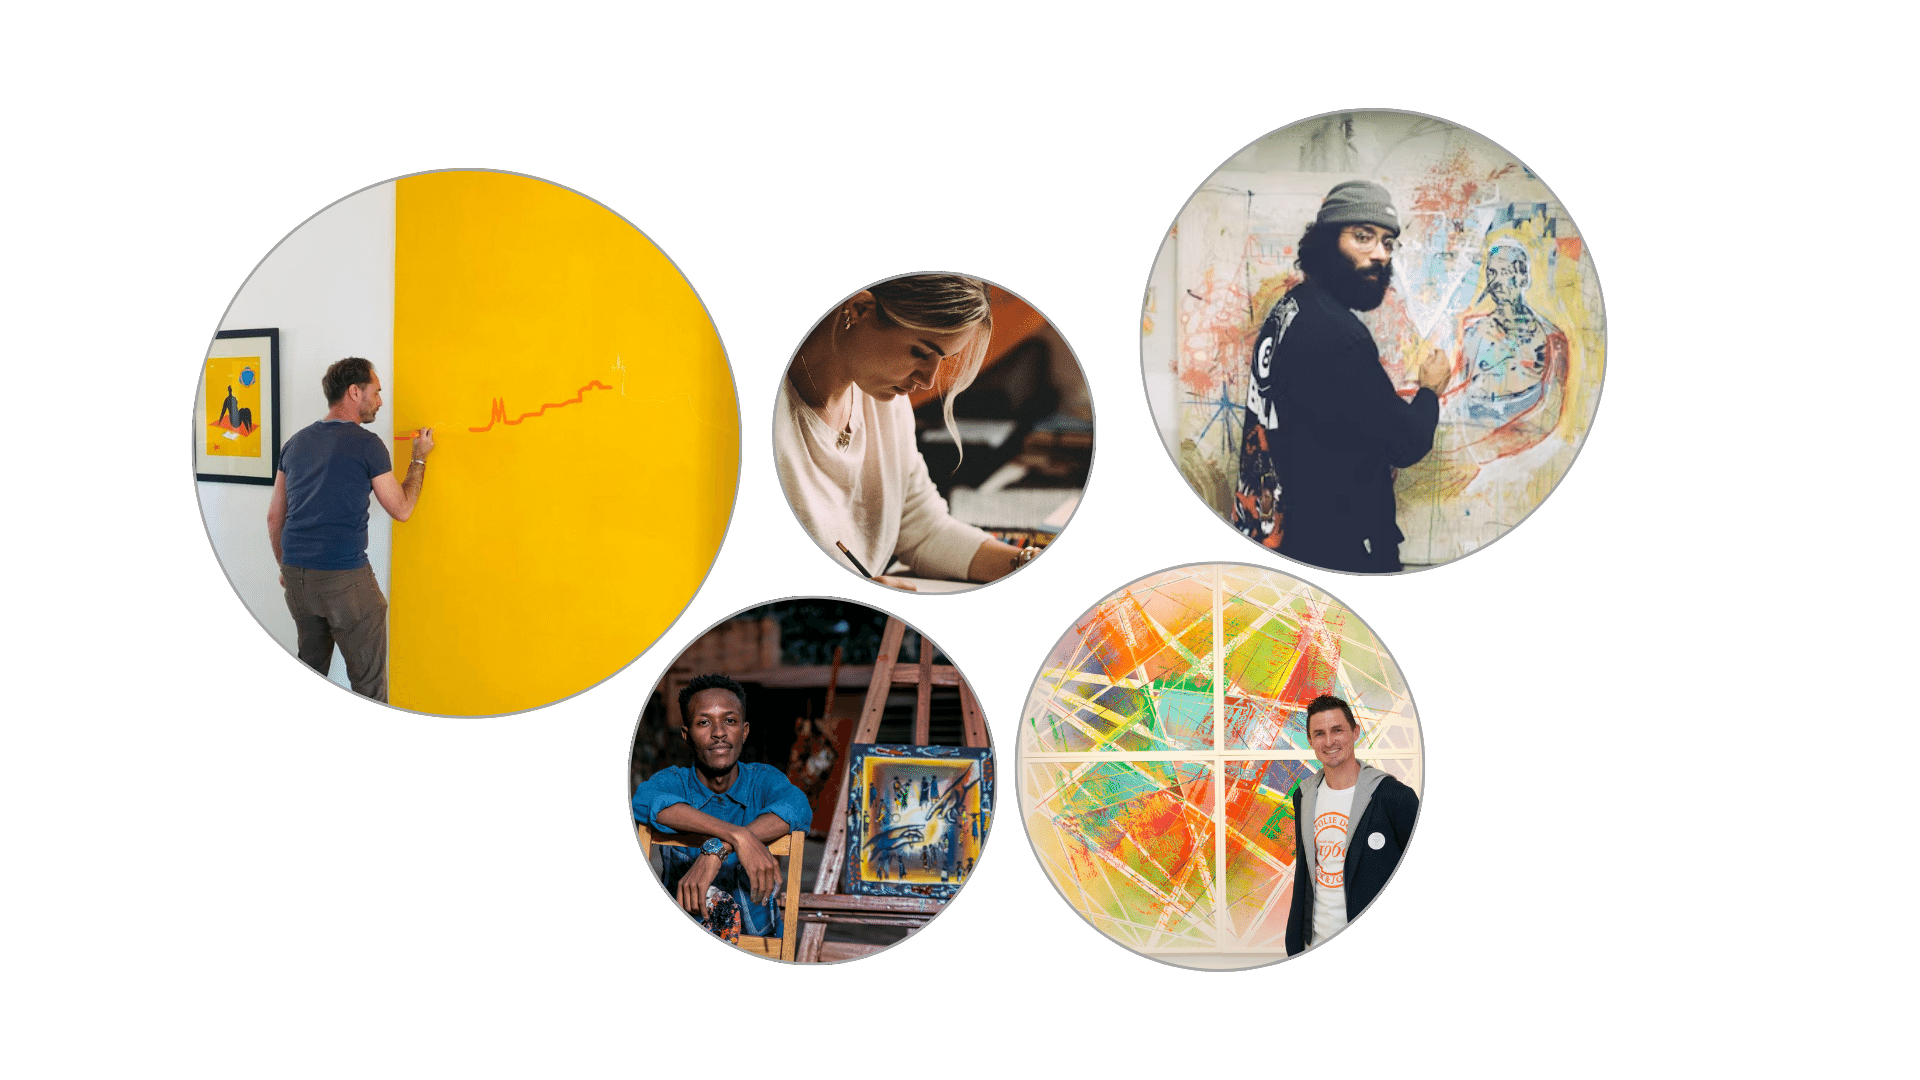
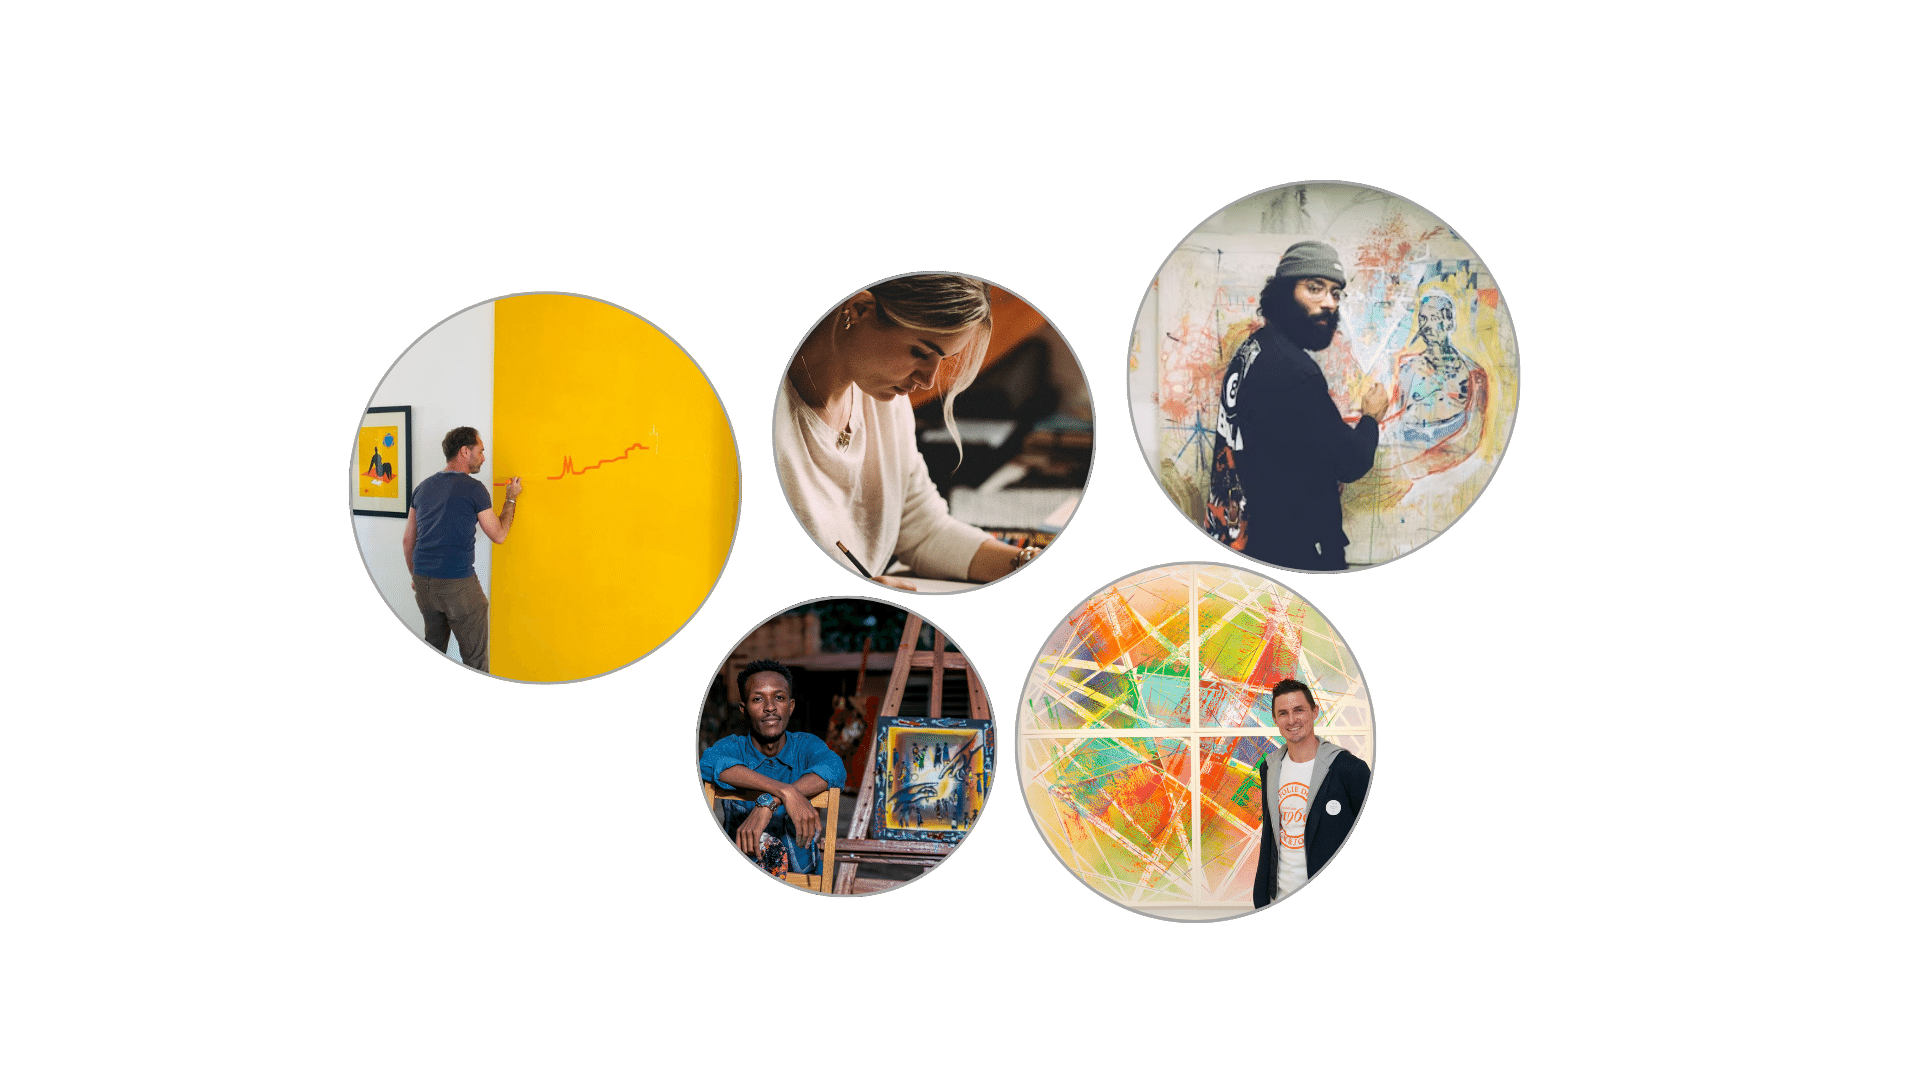
new

diff --git a/app/(services)/peinture/page.tsx b/app/(services)/peinture/page.tsx
@@ -72,7 +72,7 @@ const ServiceOeuvrePage = () => {
         <LayoutCardItem className={"border-t-0"}>
           <DescribeCompText
             className="flex xl:items-start xl:text-start text-center items-center"
-            title={" Les avantages pour l'entreprises !"}
+            title={" Les avantages pour l'entreprise !"}
             title2={"Peignez ☞"}
             list1={"Bénéficier d’un dispositif fiscal avantageux 💸"}
             list2={"Embellir vos lieux de travail 🤩"}
@@ -83,8 +83,8 @@ const ServiceOeuvrePage = () => {
           <SimpleImage
             image={"/image/hero-oeuvre.png"}
             alt={"Personnes heureuses en entreprise"}
-            className={"pb-0 mb-0"}
-            size={"md:h-[350px] h-[190px]"}
+            className={"pb-0 mb-1"}
+            size={"xl:h-[360px] md:h-[350px] h-[190px]"}
           />
         </LayoutCardItem>
       </LayoutModule>{" "}
@@ -99,7 +99,7 @@ const ServiceOeuvrePage = () => {
             text={
               <Typography variant={"p"}>
                 Vous échangerez sur son histoire et son style,{" "}
-                <strong>sa méthode de travail et ses inspirations. ✷</strong>
+                <strong>sa méthode de travail et ses inspirations ✷</strong>
               </Typography>
             }
           ></ValuePropCompText>
@@ -125,7 +125,7 @@ const ServiceOeuvrePage = () => {
                 {" "}
                 Chacun des employés challengera sa créativité{" "}
                 <strong>
-                  permettant ainsi a l'artiste de créer l'oeuvre par la suite !
+                  permettant ainsi a l'artiste de créer l'oeuvre !
                 </strong>{" "}
                 ✶
               </Typography>
@@ -154,7 +154,7 @@ const ServiceOeuvrePage = () => {
             image={"/image/artistes.png"}
             alt={"Artistes peintres"}
             className={"border-none shadow-none "}
-            size={"md:h-[350px] h-[190px]"}
+            size={" md:h-[350px] h-[190px]"}
           />
         </LayoutCardItem>
         <LayoutCardItem className={"border-t-0"}>

diff --git a/app/page.tsx b/app/page.tsx
@@ -86,8 +86,7 @@ export default function HomePage() {
                 Réalisez un investissement <strong>engagé</strong>, qui exprime
                 les <strong>valeurs de votre entreprise</strong>, vous
                 différencie de la concurrence tout en{" "}
-                <strong>soutenant l’art</strong> et les artistes{" "}
-                <strong>locaux</strong> ✶
+                <strong>soutenant les artistes locaux</strong> ✶
               </Typography>
             }
           ></ValuePropCompText>
@@ -145,6 +144,7 @@ export default function HomePage() {
         </LayoutCardItem>
         <LayoutCardItem className={"border-t-0"}>
           <CompareSlider
+            className={"xl:h-[320px]"}
             altImage1={""}
             srciImage1={"/image/fresque-entreprise.png"}
             altImage2={""}
@@ -178,7 +178,7 @@ export default function HomePage() {
             }
             alt={""}
             className={"pb-0 mb-0"}
-            size={"md:h-[350px] h-[190px]"}
+            size={"xl:h-[360px] md:h-[350px] h-[190px]"}
           />
         </LayoutCardItem>
       </LayoutModule>

diff --git a/app/(services)/team-building/page.tsx b/app/(services)/team-building/page.tsx
@@ -86,8 +86,8 @@ const ServiceTeamBuildingPage = () => {
           <SimpleImage
             image={"/image/hero-seminaire.png"}
             alt={"Personnes heureuses en entreprise"}
-            className={"pb-0 mb-0"}
-            size={"md:h-[350px] h-[190px]"}
+            className={"pb-0 mb-1"}
+            size={"xl:h-[370px] md:h-[350px] h-[190px]"}
           />
         </LayoutCardItem>
       </LayoutModule>{" "}
@@ -116,7 +116,10 @@ const ServiceTeamBuildingPage = () => {
                 {" "}
                 Les coachs plasticiens sont là pour offrir des conseils et une
                 orientation artistique tout au long du processus.{" "}
-                <strong>Leur expertise aide les équipes à se dépasser !</strong>
+                <strong>
+                  Leur expertise aide les équipes à se dépasser{" "}
+                </strong>{" "}
+                et à prendre confiance !
               </Typography>
             }
             icon={

diff --git a/app/(services)/fresque/page.tsx b/app/(services)/fresque/page.tsx
@@ -83,8 +83,8 @@ const ServiceFresquePage = () => {
           <SimpleImage
             image={"/image/hero-fresque.png"}
             alt={"Personnes heureuses en entreprise"}
-            className={"pb-0 mb-0"}
-            size={"md:h-[350px] h-[190px]"}
+            className={"pb-0 mb-1"}
+            size={"xl:h-[360px] md:h-[350px] h-[190px]"}
           />
         </LayoutCardItem>
       </LayoutModule>{" "}
@@ -104,7 +104,7 @@ const ServiceFresquePage = () => {
                   favorisant ainsi la collaboration et l'engagement de toute
                   l'équipe dans le processus créatif,
                 </strong>{" "}
-                créant un moment de partage inoubliable.
+                créant un moment de partage inoubliable et authentique.
               </Typography>
             }
           ></ValuePropCompText>

diff --git a/src/components/ui/card.tsx b/src/components/ui/card.tsx
@@ -7,7 +7,7 @@ import { cn } from "../../lib/utils";
 const cardVariants = cva("", {
   variants: {
     variant: {
-      item: "bg-card text-card-foreground w-[358px] md:w-[598px] xl:w-[1198px] p-1 ",
+      item: "bg-card text-card-foreground w-[358px] md:w-[598px] xl:w-[998px] p-1 ",
       default: "border bg-card text-card-foreground shadow-sm",
       background: "text-background-foreground border bg-background",
       error: "border border-destructive bg-card text-foreground",

diff --git a/src/features/components/home.tsx b/src/features/components/home.tsx
@@ -34,7 +34,7 @@ export const Home = ({
     >
       <Card
         variant={"default"}
-        className="flex flex-col items-center justify-center bg-black/20 text-center xl:w-[1350px] md:w-[600px] w-[360px] p-5 backdrop-blur border-none text-white mt-20 pb-10"
+        className="flex flex-col items-center justify-center bg-black/20 text-center xl:w-[1150px] md:w-[600px] w-[360px] p-5 backdrop-blur border-none text-white mt-20 pb-10"
       >
         {" "}
         <Typography

diff --git a/src/features/layout/layout-page.tsx b/src/features/layout/layout-page.tsx
@@ -16,7 +16,7 @@ export const LayoutPage = ({ children, className, title }: LayoutPageProps) => {
       )}
     >
       <Typography variant={"h1"}>{title}</Typography>
-      <div className="xl:w-[1200px] md:w-[600px] w-[360px] flex flex-col items-center justify-center  m-10 shadow-lg border">
+      <div className="xl:w-[1000px] md:w-[600px] w-[360px] flex flex-col items-center justify-center  m-10 shadow-lg border">
         {children}
       </div>
     </div>

diff --git a/src/features/layout/layout-describe.tsx b/src/features/layout/layout-describe.tsx
@@ -13,7 +13,7 @@ export const LayoutDescribe = ({
   return (
     <section
       className={cn(
-        "xl:flex-row  justify-center items-center flex flex-col border xl:w-[1200px] md:w-[600px] w-[360px]",
+        "xl:flex-row  justify-center items-center flex flex-col border xl:w-[1000px] md:w-[600px] w-[360px]",
         { [border]: border },
         { [color]: color }
       )}

diff --git a/src/features/components/simple-image.tsx b/src/features/components/simple-image.tsx
@@ -15,7 +15,7 @@ export const SimpleImage = ({
   return (
     <div
       className={cn(
-        "inline-block overflow-hidden bg-card text-card-foreground w-[350px] md:w-[590px] xl:w-[1190px] m-1 border shadow-md",
+        "inline-block overflow-hidden bg-card text-card-foreground w-[350px] md:w-[590px] xl:w-[990px] m-1 border shadow-md",
         className
       )}
     >

diff --git a/src/features/layout/layout-card-item.tsx b/src/features/layout/layout-card-item.tsx
@@ -12,7 +12,7 @@ export const LayoutCardItem = ({
   return (
     <section
       className={cn(
-        "xl:flex-row border justify-center items-center flex flex-col xl:w-[1200px] md:w-[600px] w-[360px] bg-white ",
+        "xl:flex-row border justify-center items-center flex flex-col xl:w-[1000px] md:w-[600px] w-[360px] bg-white ",
         className
       )}
     >

diff --git a/src/features/layout/layout-module.tsx b/src/features/layout/layout-module.tsx
@@ -24,7 +24,7 @@ const LayoutModule = ({
       </Typography>
       <div
         className={cn(
-          "xl:w-[1200px] md:w-[600px] w-[360px] flex flex-col items-center justify-center  m-10 shadow-lg",
+          "xl:w-[1000px] md:w-[600px] w-[360px] flex flex-col items-center justify-center  m-10 shadow-lg",
           className
         )}
       >

diff --git a/src/features/components/hero.tsx b/src/features/components/hero.tsx
@@ -28,7 +28,7 @@ export const Hero = ({
 }: HeroPageProps) => {
   return (
     <div
-      className="bg-fixed bg-center bg-cover object-cover mb-10 border-b shadow-md"
+      className="xl:bg-fixed bg-center bg-cover object-cover mb-10 border-b shadow-md"
       style={{
         backgroundImage: `url("${backgroundImageHref}")`,
       }}
